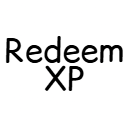
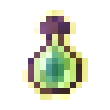
implemented save custom data so bottle entities keep their stored xp when server is restarted

diff --git a/src/main/java/redeemxp/mixin/DropExperienceMixin.java b/src/main/java/redeemxp/mixin/DropExperienceMixin.java
@@ -1,5 +1,6 @@
 package redeemxp.mixin;
 
+import net.minecraft.component.DataComponentTypes;
 import net.minecraft.entity.Entity;
 import net.minecraft.entity.ItemEntity;
 import net.minecraft.entity.LivingEntity;
@@ -7,6 +8,8 @@ import net.minecraft.item.ItemStack;
 import net.minecraft.item.Items;
 import net.minecraft.server.network.ServerPlayerEntity;
 import net.minecraft.server.world.ServerWorld;
+import net.minecraft.text.Text;
+import net.minecraft.util.Formatting;
 import org.spongepowered.asm.mixin.Mixin;
 import org.spongepowered.asm.mixin.injection.At;
 import org.spongepowered.asm.mixin.injection.Inject;
@@ -23,7 +26,8 @@ public class DropExperienceMixin {
             if (CONFIG.xp_percentage_on_death() > 0){
                 int xp_to_give = getTotalXp(player.experienceLevel, player.experienceProgress) * CONFIG.xp_percentage_on_death()/100;
                 ItemStack xp_bottle = new ItemStack(Items.EXPERIENCE_BOTTLE);
-                updateXPBottle(xp_bottle, xp_to_give, xp_to_give, "Bottle o' Death");
+                updateXPBottle(xp_bottle, xp_to_give, xp_to_give, "");
+                xp_bottle.set(DataComponentTypes.CUSTOM_NAME, Text.literal("Experience of Death").formatted(Formatting.RED));
                 player.getEntityWorld().spawnEntity(new ItemEntity(player.getEntityWorld(), player.getX(), player.getY(), player.getZ(), xp_bottle));
             }
             ci.cancel();

diff --git a/src/main/java/redeemxp/mixin/XPBottleEntityMixin.java b/src/main/java/redeemxp/mixin/XPBottleEntityMixin.java
@@ -5,9 +5,12 @@ import net.minecraft.entity.EntityType;
 import net.minecraft.entity.ExperienceOrbEntity;
 import net.minecraft.entity.projectile.thrown.ExperienceBottleEntity;
 import net.minecraft.server.world.ServerWorld;
+import net.minecraft.storage.ReadView;
+import net.minecraft.storage.WriteView;
 import net.minecraft.util.hit.HitResult;
 import net.minecraft.world.World;
 import org.spongepowered.asm.mixin.Mixin;
+import org.spongepowered.asm.mixin.Shadow;
 import org.spongepowered.asm.mixin.Unique;
 import org.spongepowered.asm.mixin.injection.At;
 import org.spongepowered.asm.mixin.injection.Inject;
@@ -33,6 +36,17 @@ public abstract class XPBottleEntityMixin extends Entity implements XPBottleEnti
     public XPBottleEntityMixin(EntityType<?> type, World world) {
         super(type, world);
     }
+
+    @Override
+    protected void writeCustomData(WriteView view) {
+        view.putInt("stored_xp", this.storedXp);
+    }
+
+    @Override
+    protected void readCustomData(ReadView view) {
+        this.storedXp = view.getInt("stored_xp", 0);
+    }
+
 
     @Inject(method = "onCollision", at = @At("HEAD"), cancellable = true)
     private void onCollision(HitResult hitResult, CallbackInfo ci) {

diff --git a/src/main/java/redeemxp/Manager.java b/src/main/java/redeemxp/Manager.java
@@ -73,14 +73,11 @@ public class Manager {
 
     public static void updateXPBottle(ItemStack xpbottle, int xp, int max_xp, String name){
         new ItemBuilder(xpbottle)
-            .setStackSize(1)
-            .setName(name, Formatting.LIGHT_PURPLE)
+            .setStackSize(1).setName(name, Formatting.LIGHT_PURPLE)
             .setLore(xp + "/" + max_xp + " XP", Formatting.GRAY, true)
             .setNbt(nbt -> nbt.putInt("xp", xp))
             .setNbt(nbt -> nbt.putInt("max_xp", max_xp))
-            .setMaxDura(max_xp).setDura(max_xp - xp)
-            .addEnchant(Enchantments.MENDING, 4)
-            .setComponent(DataComponentTypes.ENCHANTMENT_GLINT_OVERRIDE, true);
+            .setMaxDura(max_xp).setDura(max_xp - xp);
     }
     public static int getTotalXp(int level, float progress) {
         long xpFromLevels;
